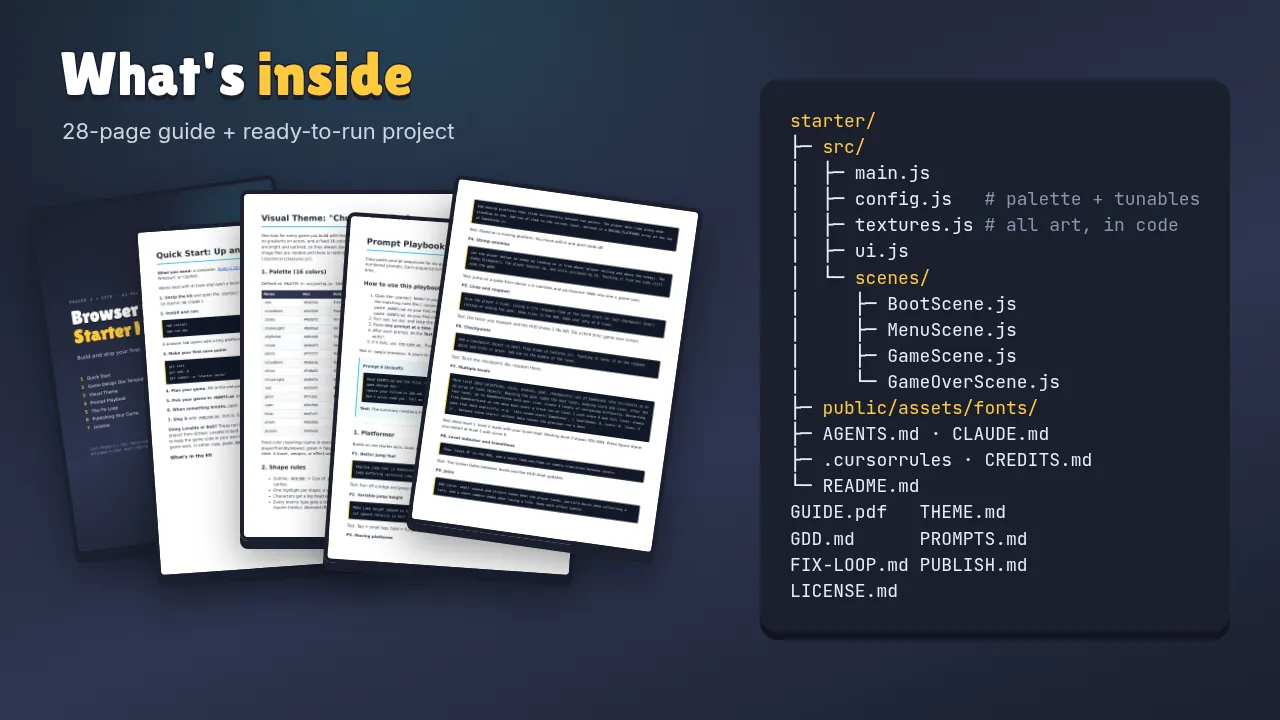
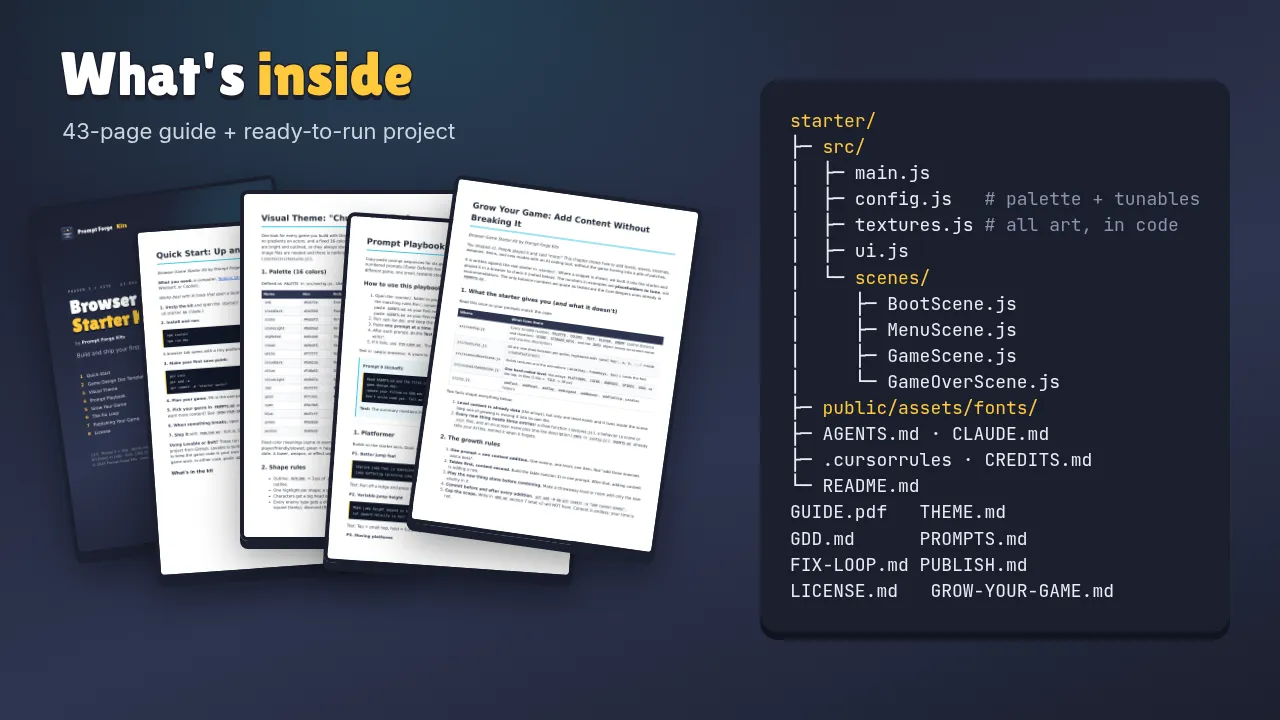
Grow Your Game chapter: kit copy, free blog teaser, day-3 email line, updated page counts

diff --git a/emails/day3.html b/emails/day3.html
@@ -1,1 +1,1 @@
-<!DOCTYPE html><html><head><meta charset="UTF-8"><meta name="viewport" content="width=device-width, initial-scale=1.0"><meta http-equiv="X-UA-Compatible" content="IE=edge"></head><body style="margin:0;padding:0;background-color:#e9edf5;"><table role="presentation" width="100%" cellpadding="0" cellspacing="0" border="0" bgcolor="#e9edf5"><tr><td align="center" style="padding-top:24px;padding-bottom:24px;padding-left:12px;padding-right:12px;"><table role="presentation" width="100%" cellpadding="0" cellspacing="0" border="0" style="max-width:600px;"><tr><td bgcolor="#1b1f2e" style="background-color:#1b1f2e;padding-top:22px;padding-bottom:22px;padding-left:26px;padding-right:26px;font-family:Arial,Helvetica,sans-serif;font-size:24px;line-height:30px;color:#ffc93c;font-weight:bold;">Prompt Forge Kits</td></tr><tr><td bgcolor="#ffffff" style="background-color:#ffffff;padding-top:28px;padding-bottom:28px;padding-left:26px;padding-right:26px;font-family:Arial,Helvetica,sans-serif;font-size:16px;line-height:24px;color:#1b1f2e;"><p style="margin-top:0;margin-bottom:14px;font-size:22px;line-height:28px;font-weight:bold;color:#1b1f2e;">One prompt = one feature</p><p style="margin-top:0;margin-bottom:14px;font-size:16px;line-height:24px;color:#1b1f2e;">Here is the single habit that separates AI-built games that ship from the ones that fall apart: ask for one thing at a time, then test it before you ask for the next.</p><p style="margin-top:0;margin-bottom:14px;font-size:16px;line-height:24px;color:#1b1f2e;">Bad prompt: "Add enemies, a score, three levels, sound, and a menu."</p><p style="margin-top:0;margin-bottom:14px;font-size:16px;line-height:24px;color:#1b1f2e;">Better, in four separate prompts:</p><table role="presentation" width="100%" cellpadding="0" cellspacing="0" border="0" style="margin-bottom:14px;"><tr><td bgcolor="#e9edf5" style="background-color:#e9edf5;border:2px solid #1b1f2e;padding-top:10px;padding-bottom:10px;padding-left:12px;padding-right:12px;font-family:Courier New,Courier,monospace;font-size:13px;line-height:19px;color:#1b1f2e;">1. Add one red circle enemy that walks back and forth on the ground.<br>2. Make the player lose when touching it. Show how to test.<br>3. Let the player stomp it from above. Score +25.<br>4. Add a score counter in the top-left corner.</td></tr></table><p style="margin-top:0;margin-bottom:14px;font-size:16px;line-height:24px;color:#1b1f2e;">After each one: play it, check the browser console (F12) for red errors, then commit with <b>git add -A &amp;&amp; git commit -m "step works"</b>. If three fixes in a row fail, roll back to your last commit and ask for a smaller step. Rolling back costs two minutes. Spiraling costs an evening.</p><p style="margin-top:0;margin-bottom:14px;font-size:16px;line-height:24px;color:#1b1f2e;">If you haven't yet, the free teaser guide has a 30-minute walkthrough that puts this into practice (and your welcome email has your private link to the Core Keepers demo):</p><table role="presentation" cellpadding="0" cellspacing="0" border="0" style="margin-bottom:14px;"><tr><td bgcolor="#ffc93c" style="background-color:#ffc93c;border:3px solid #1b1f2e;border-radius:10px;"><a href="https://promptforgekits.com/free-pack/" style="display:inline-block;padding-top:12px;padding-bottom:12px;padding-left:22px;padding-right:22px;font-family:Arial,Helvetica,sans-serif;font-size:16px;line-height:20px;font-weight:bold;color:#1b1f2e;text-decoration:none;">Open the teaser guide</a></td></tr></table><p style="margin-top:0;margin-bottom:0px;font-size:16px;line-height:24px;color:#1b1f2e;">If you get stuck, reply to this email and tell me where.</p></td></tr><tr><td style="padding-top:16px;padding-bottom:8px;padding-left:26px;padding-right:26px;font-family:Arial,Helvetica,sans-serif;font-size:12px;line-height:18px;color:#4a5373;">You're getting this because you asked for the free Core Keepers demo at promptforgekits.com. <a href="{{{RESEND_UNSUBSCRIBE_URL}}}" style="color:#4a5373;">Unsubscribe</a> anytime.</td></tr></table></td></tr></table></body></html>
+<!DOCTYPE html><html><head><meta charset="UTF-8"><meta name="viewport" content="width=device-width, initial-scale=1.0"><meta http-equiv="X-UA-Compatible" content="IE=edge"></head><body style="margin:0;padding:0;background-color:#e9edf5;"><table role="presentation" width="100%" cellpadding="0" cellspacing="0" border="0" bgcolor="#e9edf5"><tr><td align="center" style="padding-top:24px;padding-bottom:24px;padding-left:12px;padding-right:12px;"><table role="presentation" width="100%" cellpadding="0" cellspacing="0" border="0" style="max-width:600px;"><tr><td bgcolor="#1b1f2e" style="background-color:#1b1f2e;padding-top:22px;padding-bottom:22px;padding-left:26px;padding-right:26px;font-family:Arial,Helvetica,sans-serif;font-size:24px;line-height:30px;color:#ffc93c;font-weight:bold;">Prompt Forge Kits</td></tr><tr><td bgcolor="#ffffff" style="background-color:#ffffff;padding-top:28px;padding-bottom:28px;padding-left:26px;padding-right:26px;font-family:Arial,Helvetica,sans-serif;font-size:16px;line-height:24px;color:#1b1f2e;"><p style="margin-top:0;margin-bottom:14px;font-size:22px;line-height:28px;font-weight:bold;color:#1b1f2e;">One prompt = one feature</p><p style="margin-top:0;margin-bottom:14px;font-size:16px;line-height:24px;color:#1b1f2e;">Here is the single habit that separates AI-built games that ship from the ones that fall apart: ask for one thing at a time, then test it before you ask for the next.</p><p style="margin-top:0;margin-bottom:14px;font-size:16px;line-height:24px;color:#1b1f2e;">Bad prompt: "Add enemies, a score, three levels, sound, and a menu."</p><p style="margin-top:0;margin-bottom:14px;font-size:16px;line-height:24px;color:#1b1f2e;">Better, in four separate prompts:</p><table role="presentation" width="100%" cellpadding="0" cellspacing="0" border="0" style="margin-bottom:14px;"><tr><td bgcolor="#e9edf5" style="background-color:#e9edf5;border:2px solid #1b1f2e;padding-top:10px;padding-bottom:10px;padding-left:12px;padding-right:12px;font-family:Courier New,Courier,monospace;font-size:13px;line-height:19px;color:#1b1f2e;">1. Add one red circle enemy that walks back and forth on the ground.<br>2. Make the player lose when touching it. Show how to test.<br>3. Let the player stomp it from above. Score +25.<br>4. Add a score counter in the top-left corner.</td></tr></table><p style="margin-top:0;margin-bottom:14px;font-size:16px;line-height:24px;color:#1b1f2e;">After each one: play it, check the browser console (F12) for red errors, then commit with <b>git add -A &amp;&amp; git commit -m "step works"</b>. If three fixes in a row fail, roll back to your last commit and ask for a smaller step. Rolling back costs two minutes. Spiraling costs an evening.</p><p style="margin-top:0;margin-bottom:14px;font-size:16px;line-height:24px;color:#1b1f2e;">If you haven't yet, the free teaser guide has a 30-minute walkthrough that puts this into practice (and your welcome email has your private link to the Core Keepers demo):</p><table role="presentation" cellpadding="0" cellspacing="0" border="0" style="margin-bottom:14px;"><tr><td bgcolor="#ffc93c" style="background-color:#ffc93c;border:3px solid #1b1f2e;border-radius:10px;"><a href="https://promptforgekits.com/free-pack/" style="display:inline-block;padding-top:12px;padding-bottom:12px;padding-left:22px;padding-right:22px;font-family:Arial,Helvetica,sans-serif;font-size:16px;line-height:20px;font-weight:bold;color:#1b1f2e;text-decoration:none;">Open the teaser guide</a></td></tr></table><p style="margin-top:0;margin-bottom:14px;font-size:16px;line-height:24px;color:#1b1f2e;">Already have a game running and want more content? Here are 7 free tips for adding levels, enemies, and items without breaking it: <a href="https://promptforgekits.com/blog/grow-your-game-after-v1/" style="color:#2a5bd7;">promptforgekits.com/blog/grow-your-game-after-v1/</a></p><p style="margin-top:0;margin-bottom:0px;font-size:16px;line-height:24px;color:#1b1f2e;">If you get stuck, reply to this email and tell me where.</p></td></tr><tr><td style="padding-top:16px;padding-bottom:8px;padding-left:26px;padding-right:26px;font-family:Arial,Helvetica,sans-serif;font-size:12px;line-height:18px;color:#4a5373;">You're getting this because you asked for the free Core Keepers demo at promptforgekits.com. <a href="{{{RESEND_UNSUBSCRIBE_URL}}}" style="color:#4a5373;">Unsubscribe</a> anytime.</td></tr></table></td></tr></table></body></html>
